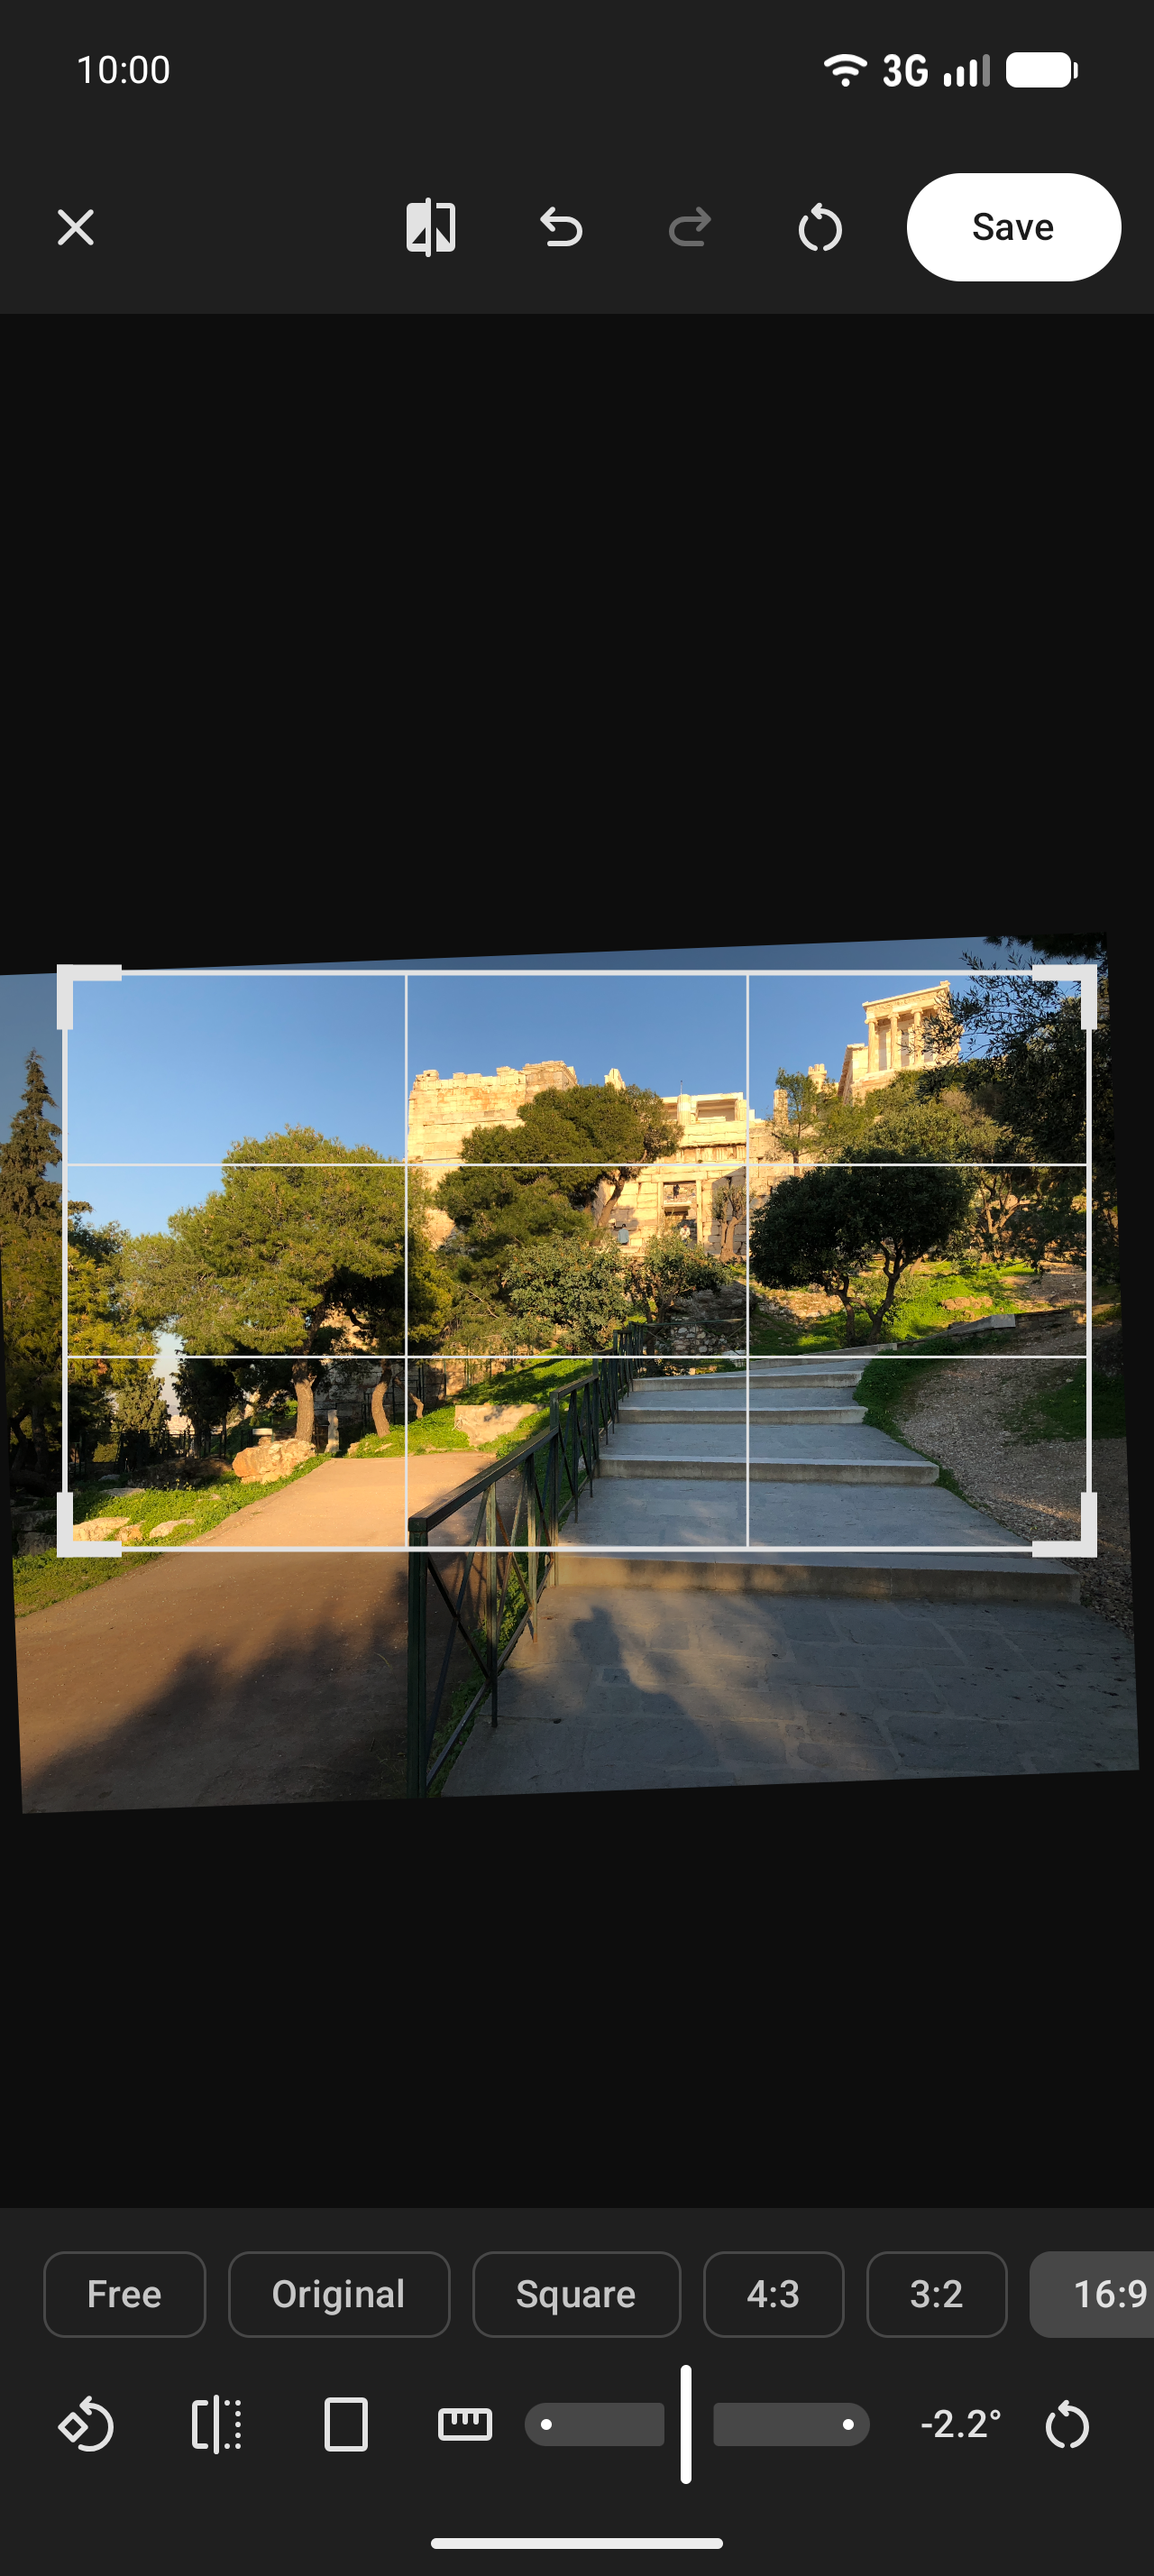
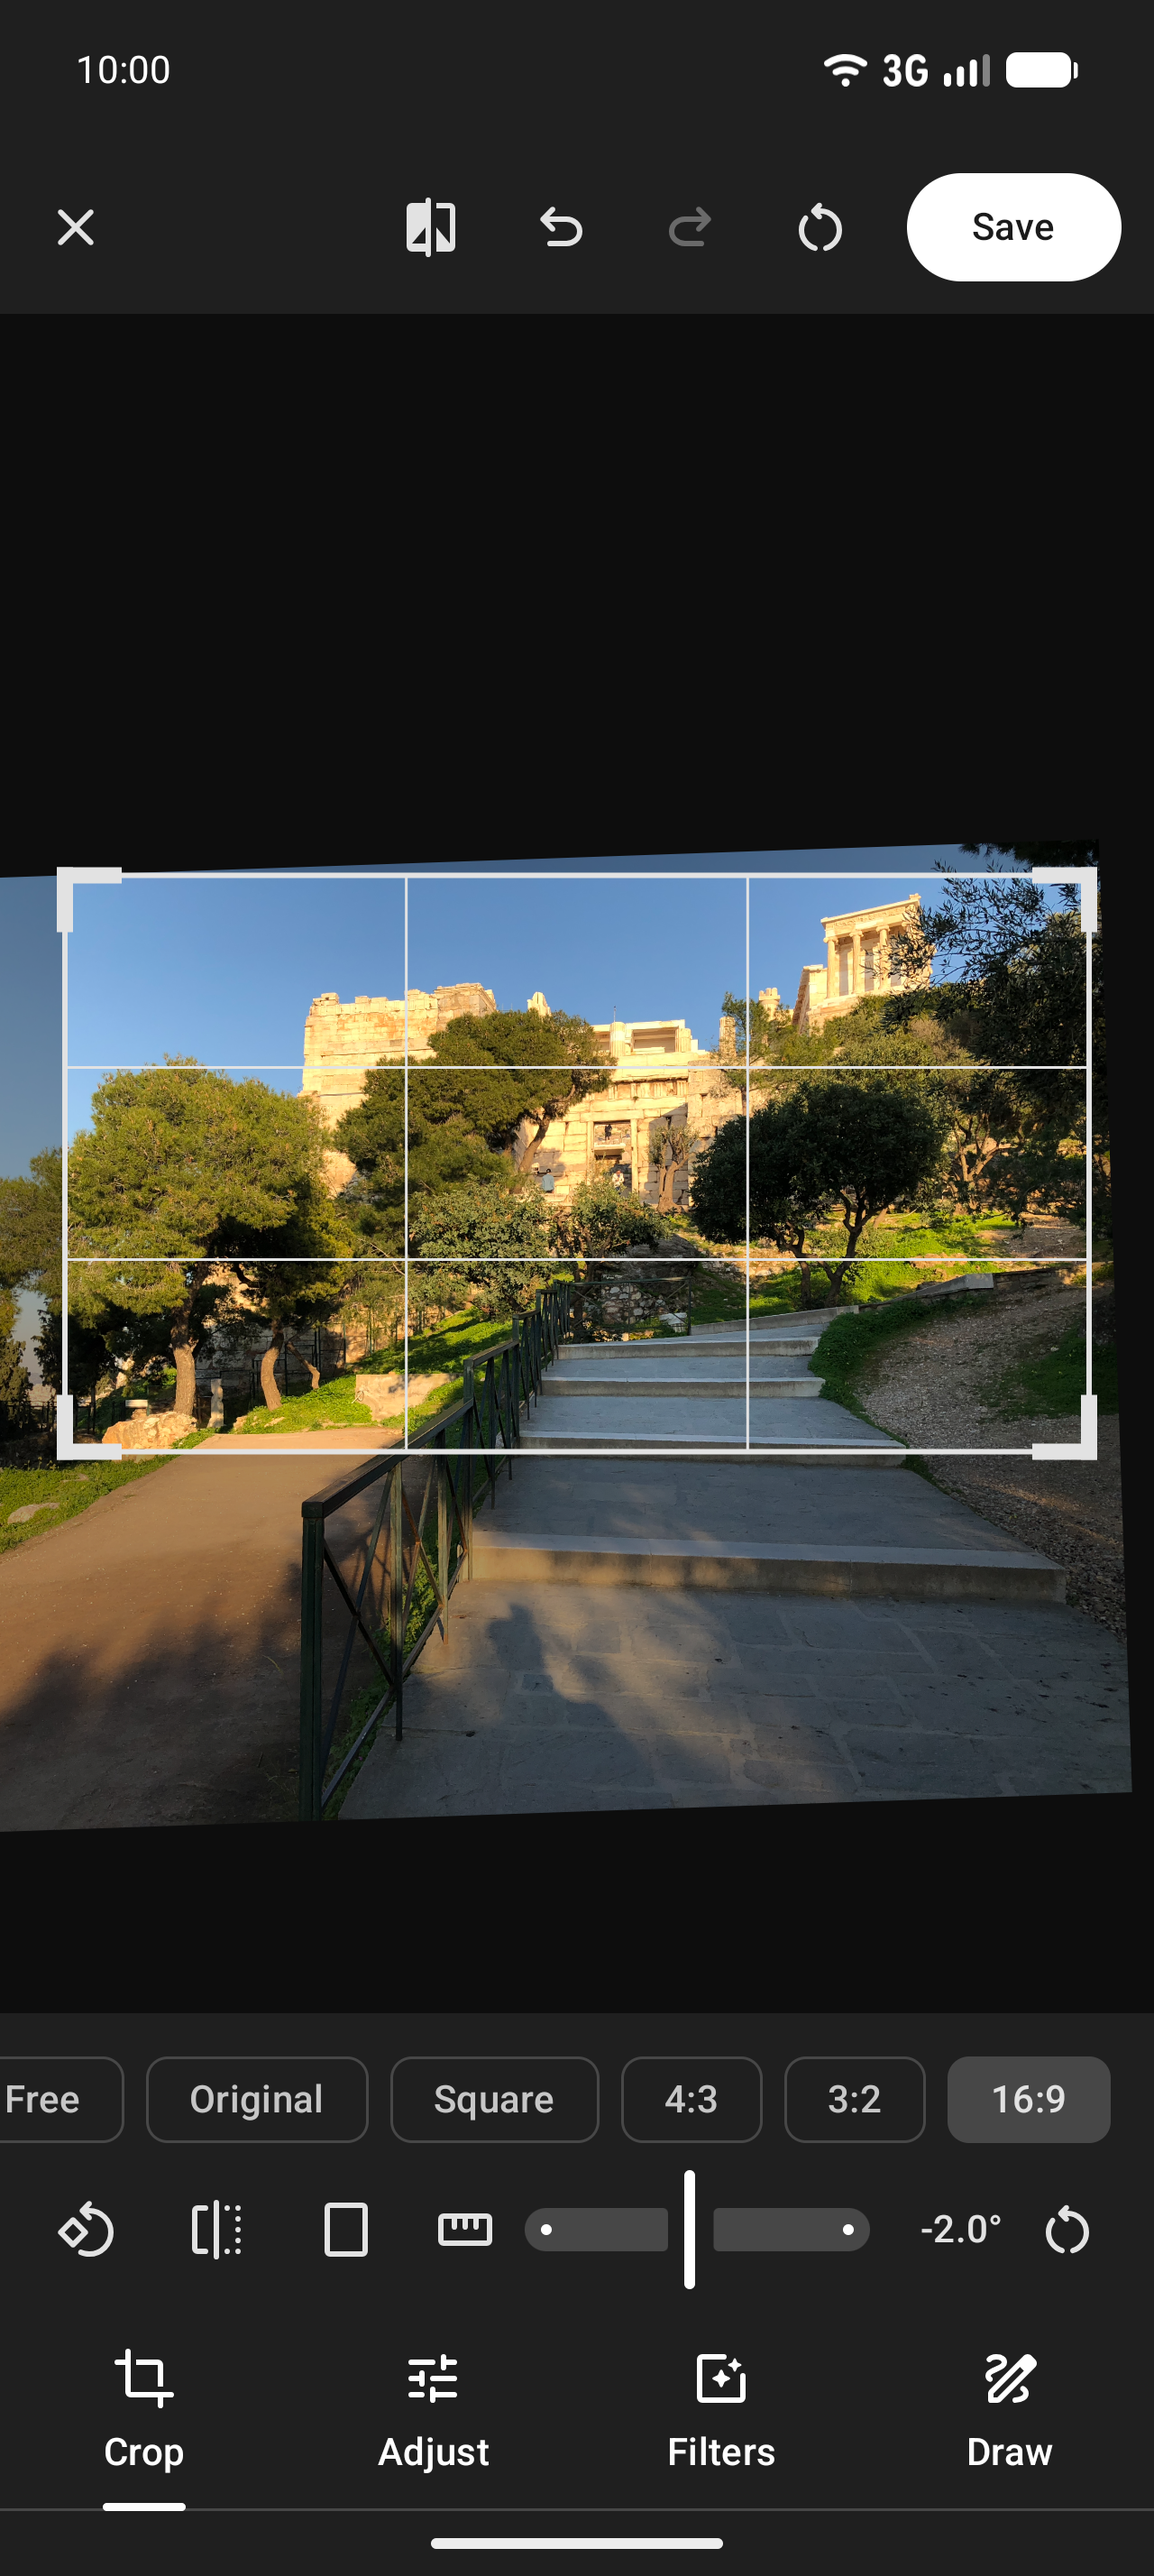
Releasing v0.1.1.

diff --git a/README.md b/README.md
@@ -2,7 +2,7 @@
 
 A private gallery for Android: photos and videos by day, HDR, albums, places and an encrypted vault, with no Internet access.
 
-**Current version**: v0.1.0
+**Current version**: v0.1.1
 
 Source code and releases: [git.hnet.sh/hkr/gallery](https://git.hnet.sh/hkr/gallery)
 
@@ -44,7 +44,7 @@ Gallery shows the photos and videos on your phone and is designed to be the only
 
 ### And also
 
-- **Editor**: Crop with aspect ratios, rotate, mirror and straighten (one or two fingers move and zoom the photo under the frame), saved as a copy or over the original, keeping Ultra HDR and metadata
+- **Editor**: Crop with aspect ratios, rotate, mirror and straighten; adjust exposure, contrast, highlights, shadows, saturation, warmth and sharpness, or start from one of six filters; draw and write on photos; trim videos frame-accurately. Edits are saved as a copy or over the original, keeping Ultra HDR, HDR video and metadata
 - **Slideshow**: Crossfade or Ken Burns, with videos played for up to 15 s
 - **Other apps**: Opens photos and videos from other apps, and lets other apps pick photos and videos from Gallery
 - **Backup and restore** of settings and albums to a file you choose
